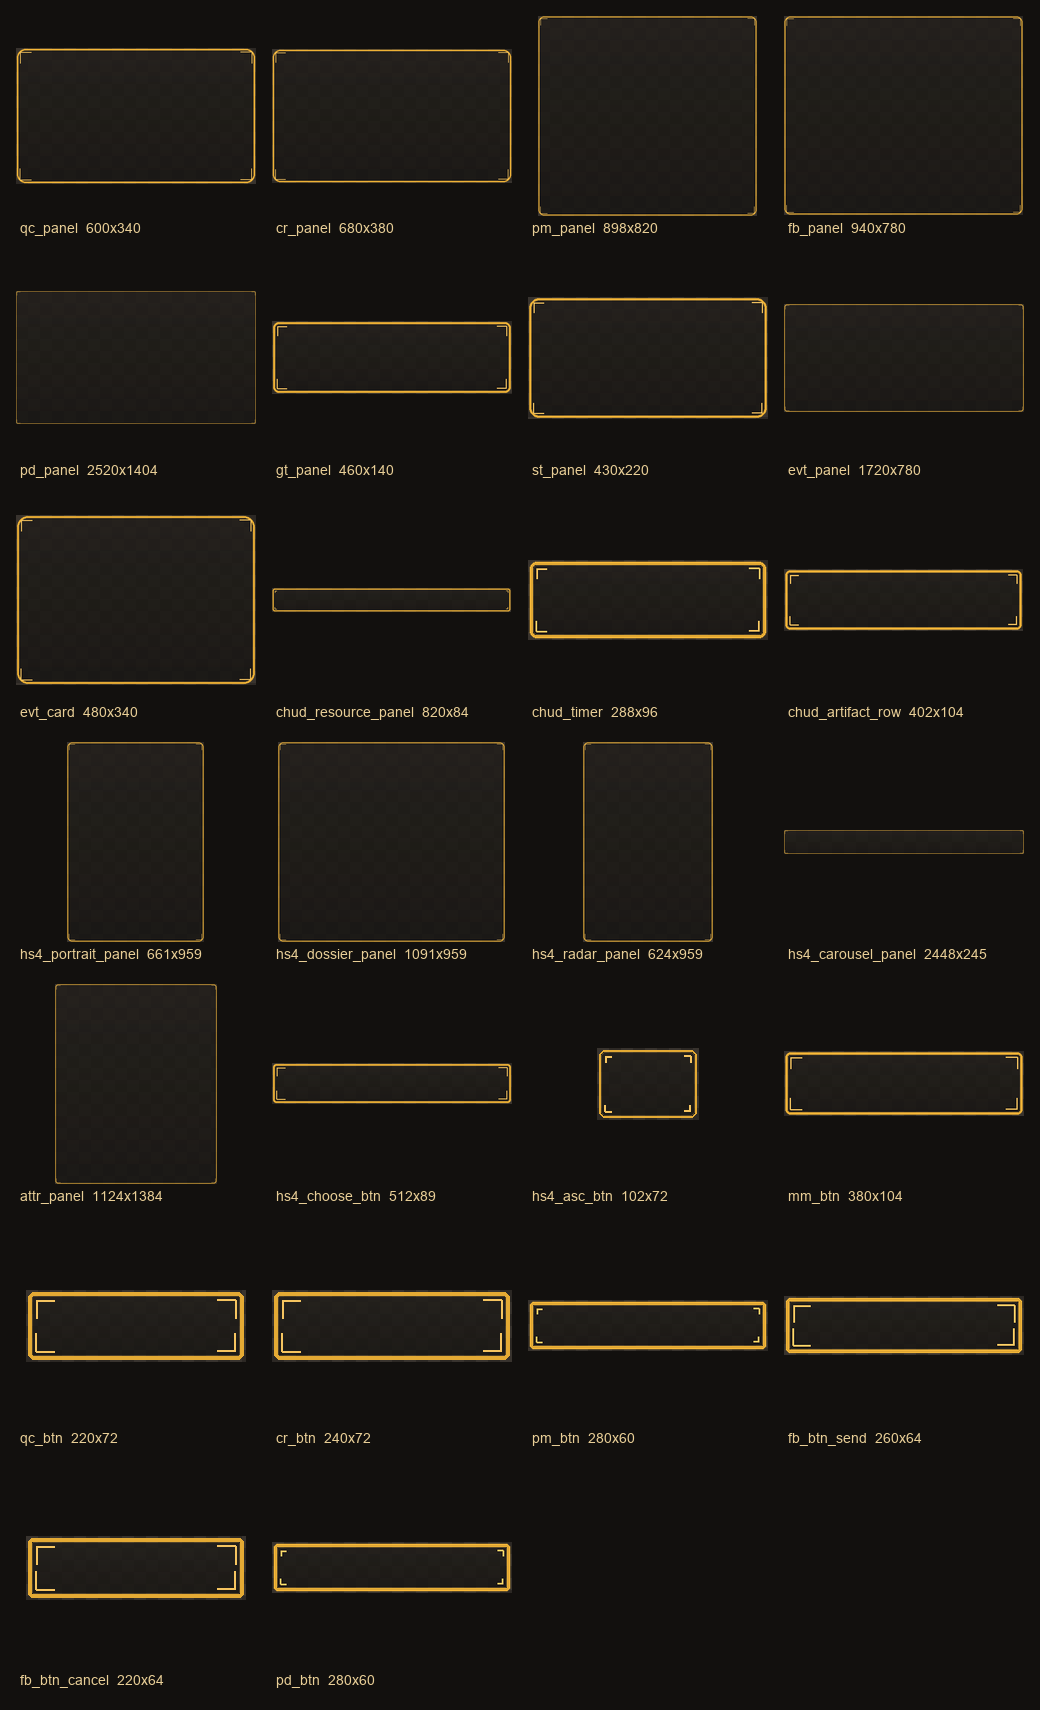
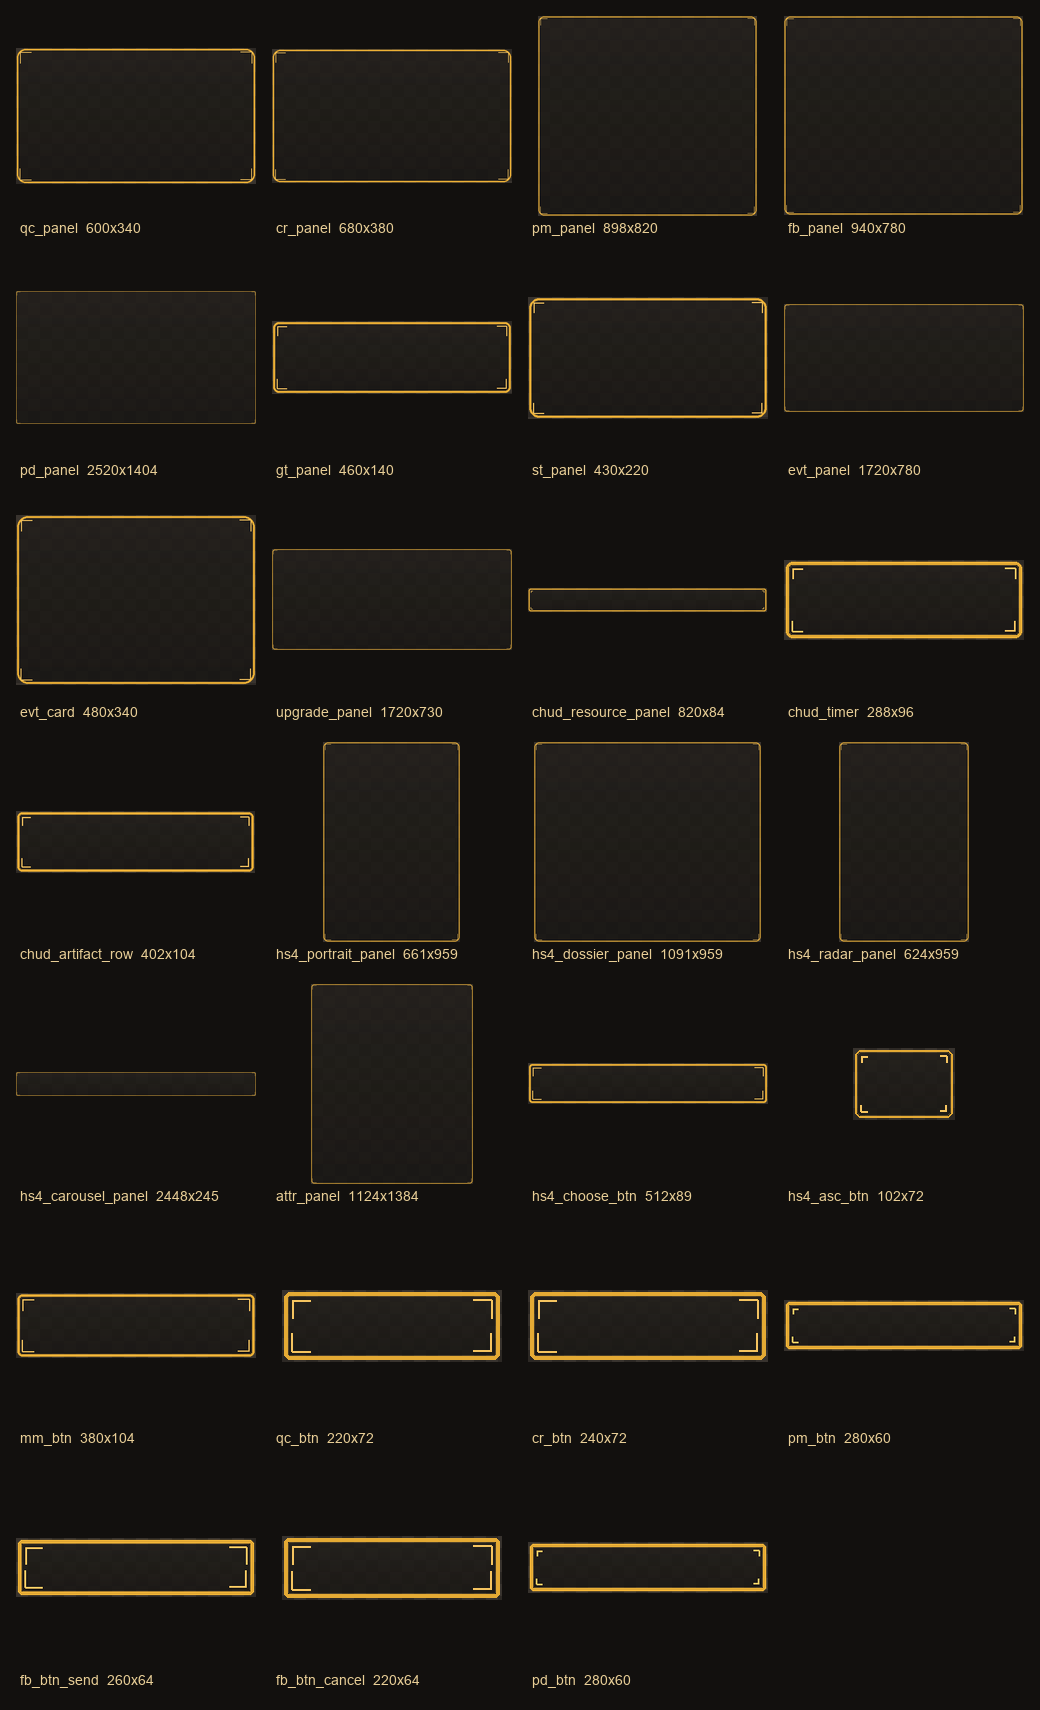
feat(SCRUM-573): UI-редизайн Улучшение @2K (раскладка+генерация)
Per-слот @2K-рамка панели экрана улучшения (economy-панель upgrade, 1720×730)
вместо общего _economy_panel_style, который ужимался под слот и мылил орнамент.
Нарисована 1:1 под слот (UPGRADE_PANEL_2K) build_ui_2k_frame_kit.py с нативными
9-slice бордюрами — резкий орнамент на 1080p/2K/4K. Карточки выбора остаются на
общем economy-choice-арте (как остальные economy-экраны кроме события).

- ui_screens.gd: UPGRADE_PANEL_2K/UPGRADE_SAFE_2K координаты + _upgrade_panel_2k_style
  (как _event_panel_2k_style); _show_upgrade_screen передаёт override в _create_menu_box.
- ui_theme_paths.gd: upgrade_panel в OVERHAUL_2K_*.
- build_ui_2k_frame_kit.py: upgrade_panel слот (anti-drift сверка с UPGRADE_PANEL_2K).
- ассет + .import + mockup-спека + превью раскладки.

Green-gate PASS: runtime_smoke_test + ui_no_overlap_matrix_test (upgrade_economy без
overflow/overlap @1080p/2K/4K), frame-kit --verify зелёный. Эпик SCRUM-481.

diff --git a/tools/build_ui_2k_frame_kit.py b/tools/build_ui_2k_frame_kit.py
@@ -66,6 +66,9 @@ SLOTS = [
     # переиспользуют base card-арт под hover) — отдельный идентичный PNG не нужен.
     {"slug": "evt_panel", "file": "ui_screens", "const": "EVT_PANEL_2K", "kind": "frame", "margin_key": "panel", "w": 1720, "h": 780},
     {"slug": "evt_card", "file": "ui_screens", "const": "EVT_CARD_2K", "kind": "frame", "margin_key": "card", "w": 480, "h": 340},
+    # SCRUM-573 (Улучшение): per-слот @2K-рамка панели улучшения (economy-panel "upgrade").
+    # Карточки выбора переиспользуют общий economy-choice-арт (как остальные economy-экраны).
+    {"slug": "upgrade_panel", "file": "ui_screens", "const": "UPGRADE_PANEL_2K", "kind": "frame", "margin_key": "panel", "w": 1720, "h": 730},
     # боевой HUD-блок (SCRUM-564, эпик SCRUM-481): per-слот @2K-рамки из CHUD_*_2K.
     # Тонкие горизонтальные стрипы → margin-профили hud_resource/hud_timer/hud_artifact.
     {"slug": "chud_resource_panel", "file": "ui_screens", "const": "CHUD_RESOURCE_PANEL_2K", "kind": "frame", "margin_key": "hud_resource", "w": 820, "h": 84},

diff --git a/docs/design/mockups/upgrade/spec.md b/docs/design/mockups/upgrade/spec.md
@@ -1,0 +1,45 @@
+# Mockup-спека — Улучшение (SCRUM-573, эпик SCRUM-481 UI Overhaul 2K)
+
+База **2560×1440**, `stretch=canvas_items`, `aspect=keep`. Редизайн экрана «Улучшение»
+(`_show_upgrade_screen`, economy-панель "upgrade"): per-слот @2K-рамка панели вместо
+общего `_economy_panel_style()` (minimal_metal panel), который ужимался под слот и мылил
+орнамент. Стиль — единый bright-минимал amber dark-fantasy (как event SCRUM-565, меню SCRUM-486).
+
+## ЭТАП 1 — раскладка / метрики @2560×1440
+
+Панель улучшения центрирована, target 1720×730 (из `_economy_menu_panel_half_size("upgrade")`).
+Зафиксировано код-константой `UPGRADE_PANEL_2K` в `scripts/ui_screens.gd`.
+
+| Слот | const | x | y | w | h |
+|---|---|---:|---:|---:|---:|
+| Панель (фрейм) | `UPGRADE_PANEL_2K` | 420 | 355 | 1720 | 730 |
+| Safe-area | `UPGRADE_SAFE_2K` | 478 | 427 | 1604 | 592 |
+| Карточка выбора (×3) | — (economy-choice) | — | — | ~480 | ~340 |
+
+**Инварианты (проверены `ui_no_overlap_matrix_test`, секция upgrade_economy на 1080p/2K/4K):**
+заголовок + подзаголовок + 3 карточки выбора усиления влезают в safe-area без overflow/overlap;
+текст в рамке. Карточки в ScrollContainer (как все economy-экраны) — при узком вьюпорте
+безопасный скролл вместо обрезки.
+
+## ЭТАП 2 — генерация рамки
+
+Рамка `upgrade_panel` 1720×730 сгенерирована детерминированным `tools/build_ui_2k_frame_kit.py`
+(SCRUM-485) — 9-slice-safe, РОВНО в пиксельный размер слота @2K с нативными бордюрами
+(panel-профиль 38,52,38,48). Рендер-верификатор (`--verify`) зелёный: размер == ожидаемый,
+9-slice валиден, углы стабильны на 1080p/2K/4K, центр чист, нет stray-островов.
+
+Карточки выбора оставлены на общем economy-choice-арте (как остальные economy-экраны,
+кроме события, у которого свой evt_card) — единый стиль, без дубля идентичного PNG.
+
+Ассет: `assets/sprites/ui/frames/overhaul_2k/ui_frame_2k_upgrade_panel.png`.
+
+## Подключение в рантайм
+
+- `ui_theme_paths.gd`: `upgrade_panel` в `OVERHAUL_2K_FRAME_PATHS`/`_SOURCE_SIZE`/`_TEXTURE_MARGINS`/`_CONTENT`.
+- `ui_screens.gd`: новый `_upgrade_panel_2k_style()` (как `_event_panel_2k_style`);
+  `_show_upgrade_screen` передаёт его override-аргументом в `_create_menu_box(..., "upgrade", _upgrade_panel_2k_style())`.
+
+## Тесты (green-gate)
+
+- `tests/ui_no_overlap_matrix_test.gd` — PASS (upgrade_economy без overflow/overlap @1080p/2K/4K).
+- `tests/runtime_smoke_test.gd` — PASS (экран улучшения строится, выбор применяется).
